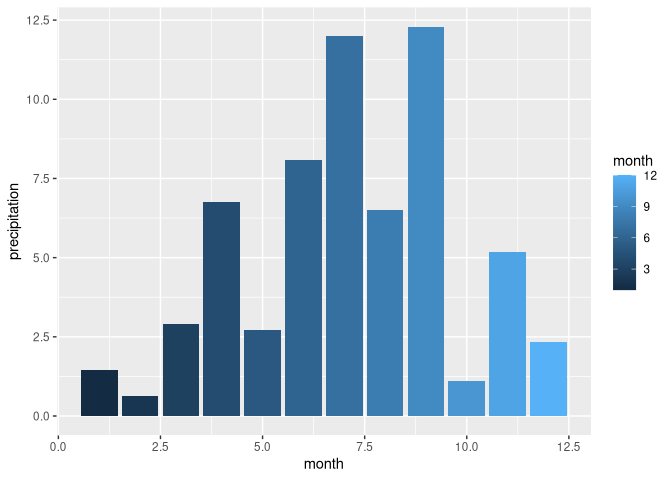
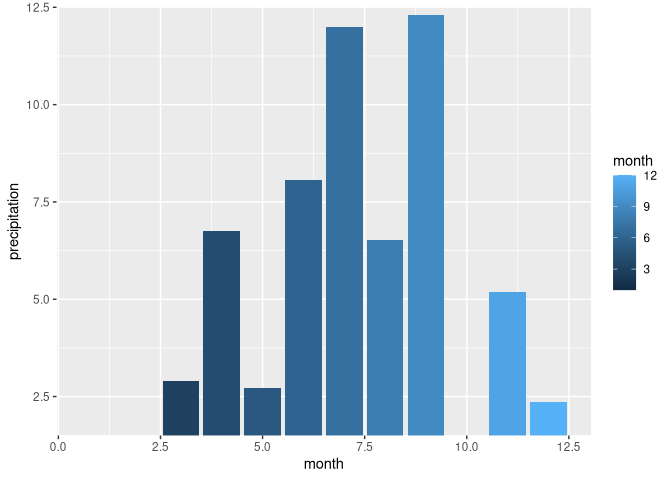
update project 3 readme

diff --git a/project-03/README.md b/project-03/README.md
@@ -1,0 +1,57 @@
+# Data Visualization
+
+> Per Sander.
+
+## Mini-Project 3
+
+In this project, I explored the 2022 data from the FSU Florida Climate Center and the text of the lyrics of the top 100 songs from 2015. The purpose of this project was to explore different types of graphs and to perform a text analysis using bigrams.
+
+The report can be found in sander_project_03.html or sander_project_03.md (The md file on github does not display interactive graphs correctly)
+
+## 1 Interactive Chart
+
+The following interactive barchart graph was created: *(check out sander_project_03.html for an interactive version)*
+
+<img src="../figures/project-3-graph-7-2-non-interactive.png"/>
+
+When hovering over the bars total occurrences and unique occurrences in songs are shown. 
+Furthermore, the graph can be switched between showing the most common word, bigrams of length 2, or bigrams of length 3.
+Through these interactive graph, I noticed that the dataset is missing spaces in the song lyrics. (check out report for more info)
+
+<img src="../figures/project-3-graph-7-2-non-interactive-showcase.png"/>
+
+
+
+## 2 Accessibility
+
+For accessibility fig.alt text were included for each graph, and colorblind safe colors and pallets were chosen.(various viridis color pallets used and other colors were tested using this tool <https://rgblind.com/color-blindness-simulator>)
+
+The library ggigraph did not seem to include the fig.alt text. The following workaround was used:
+
+``` r
+library(htmltools)
+
+browsable(
+  tags$div(
+    `aria-label` = "fig.alt text here ...",
+    role = "img",
+    interactive_graph
+  )
+)
+```
+
+This workaround puts the graph into a div container with text for screen readers.
+
+## 3 bad chart redesign
+
+For this project a bad chart was created on purpose.
+
+### bad example
+
+<img src="../figures/project-3-graph-5-bad-example.png"/>
+
+### reworked graph
+
+<img src="../figures/project-3-graph-6.png"/>
+
+The bad graph has multiple issues from aesthetics to miss use of ggplot. The months are not labeled correctly and are treated as a continuous variable rather then a discrete variable. This can be seen by both the color applied as a gradient as the well as the x axis legend. This is fixed by using x=as.factor(month) instead of x=month in aes. The next problem is that the axis labels still do not clearly indicate what is being displayed. For the x axis month names were used instead of numbers and unnecessary legends were removed. Besides non descriptive labels the range of the y axis is wrong and indicates wrongly that there was no precipitation for January, February, and October. The y axis was fixed by showing the range from 0 to 12.5 and by including descriptive labels for the inch value and adding of a mm axis on the right.

diff --git a/project-01/README.md b/project-01/README.md
@@ -8,7 +8,7 @@ In this project fuel_data which contains new cars by year is analyzed with a foc
 
 The key takeaways: MPG has not increased between 1984 and to around 2010 for car models using premium or regular fuel type. At the same time, car models with better fuel economy reaching higher MPG were produced. Around 2010 average mpg for new models started to increase slightly. While electric vehicles are more efficient, comparing the MPGe value to MPG is misleading and should not be done without the introduction of a more realistic conversion of gallons to kWh.
 
-The report can be found in sander_project_01.html or sander_project_01.md (The md file in github does not display interactive graphs correctly)
+The report can be found in sander_project_01.html or sander_project_01.md (The md file on github does not display interactive graphs correctly)
 
 ## 1 Interactive Chart
 